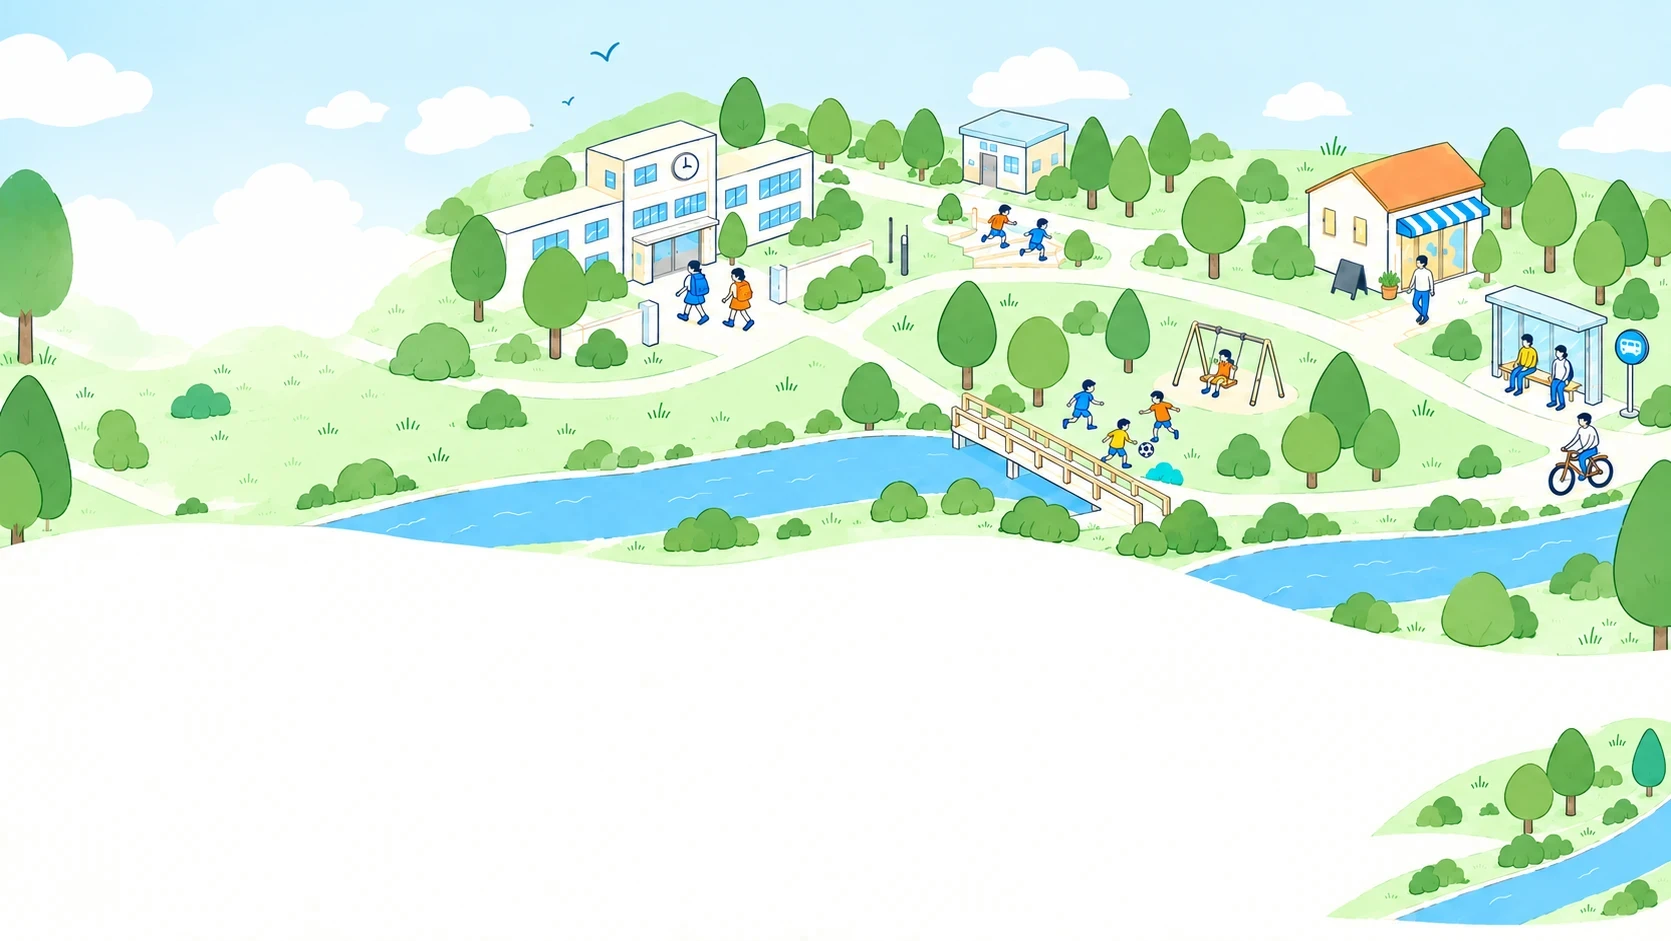
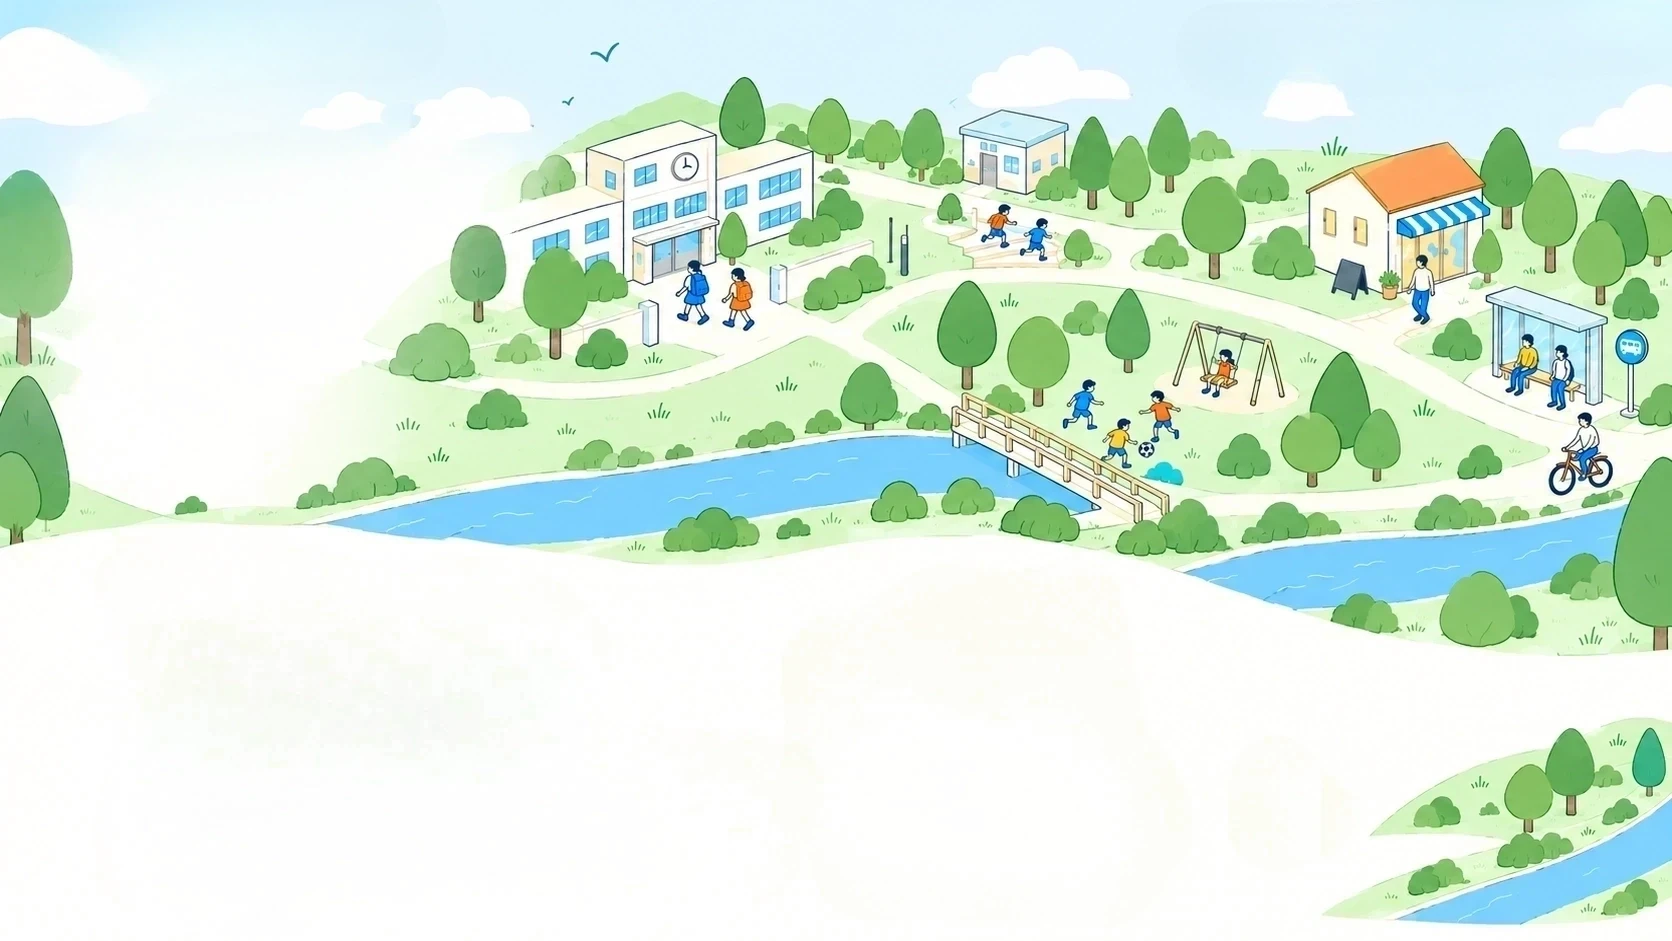
Use the clean background export for the hero
Same treatment as before: the off-white is normalised to the page white and
the phone version is cropped to the town.

diff --git a/top-c/index.html b/top-c/index.html
@@ -198,7 +198,7 @@ footer{border-top:1px solid var(--line);margin-top:30px;padding:36px 0 56px;colo
   <div class="hero-full">
     <picture>
       <source media="(max-width:700px)" srcset="../assets/hero-map-sp.webp" width="1000" height="526">
-      <img src="../assets/hero-map.webp" width="1671" height="941" fetchpriority="high"
+      <img src="../assets/hero-map.webp" width="1672" height="941" fetchpriority="high"
         alt="学校・公園・川沿いのまちで、子どもたちが遊んだり集まったりしているようすを描いたイラスト">
     </picture>
     <div class="hero-ttl">
